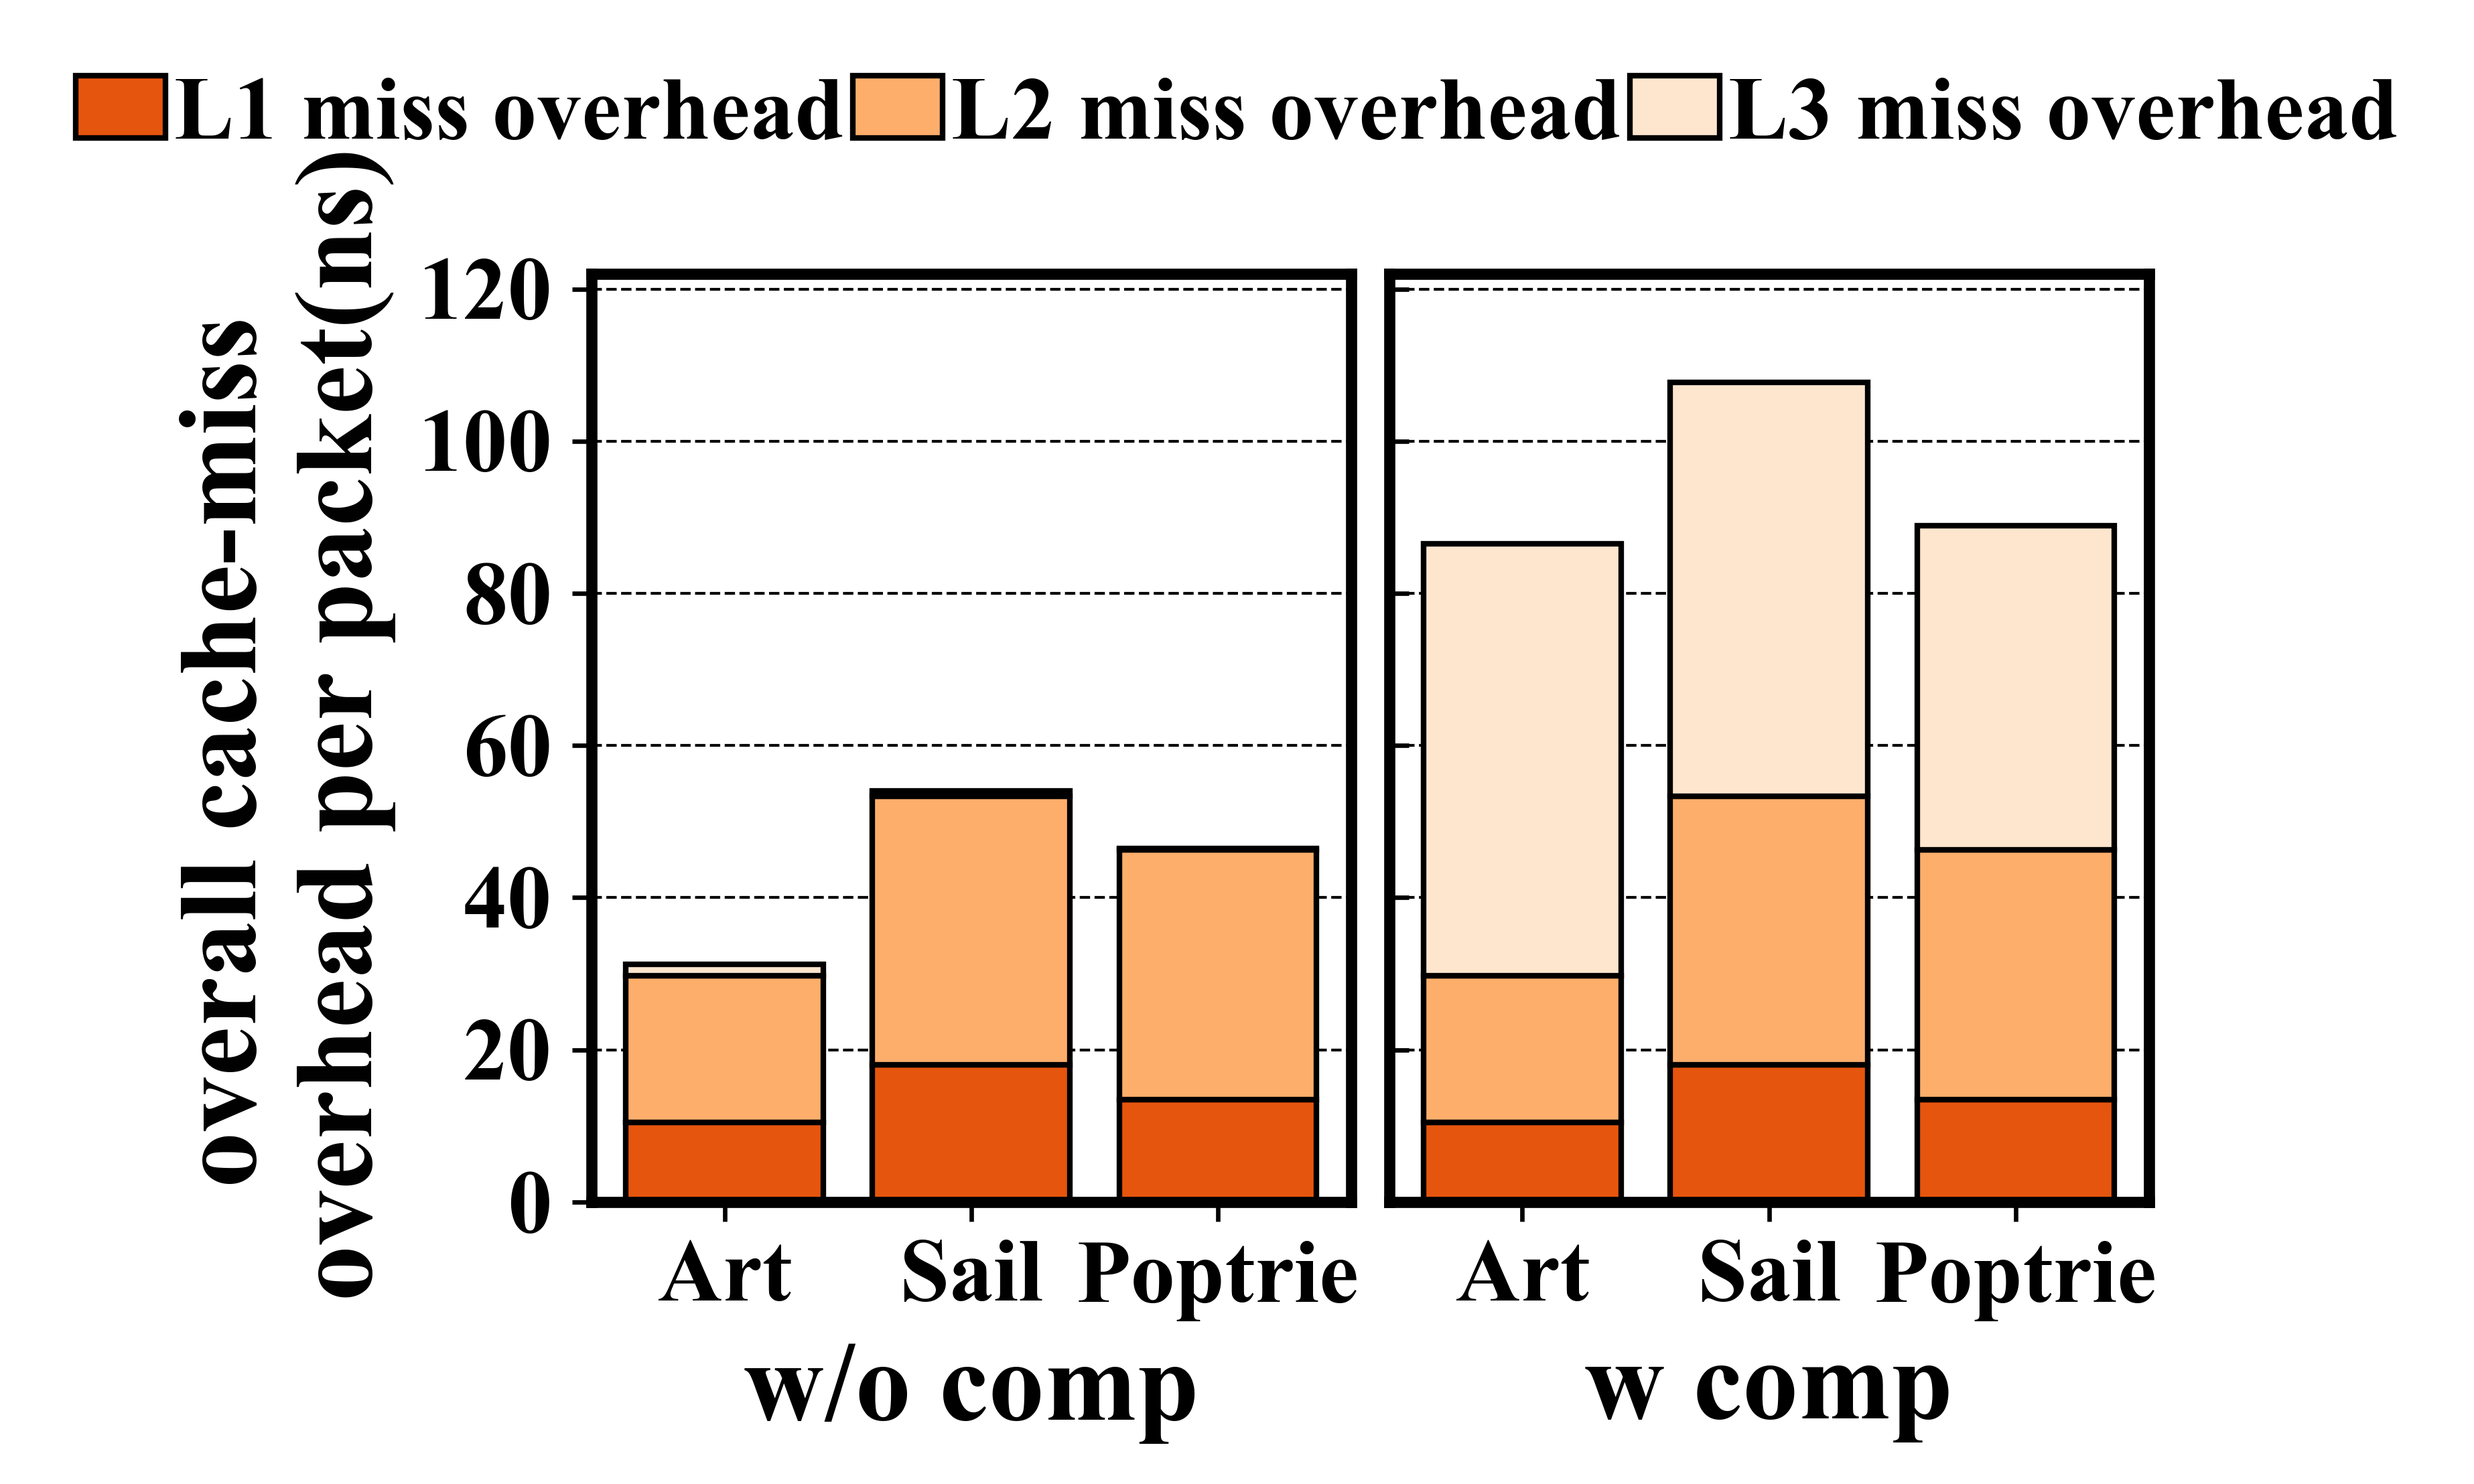
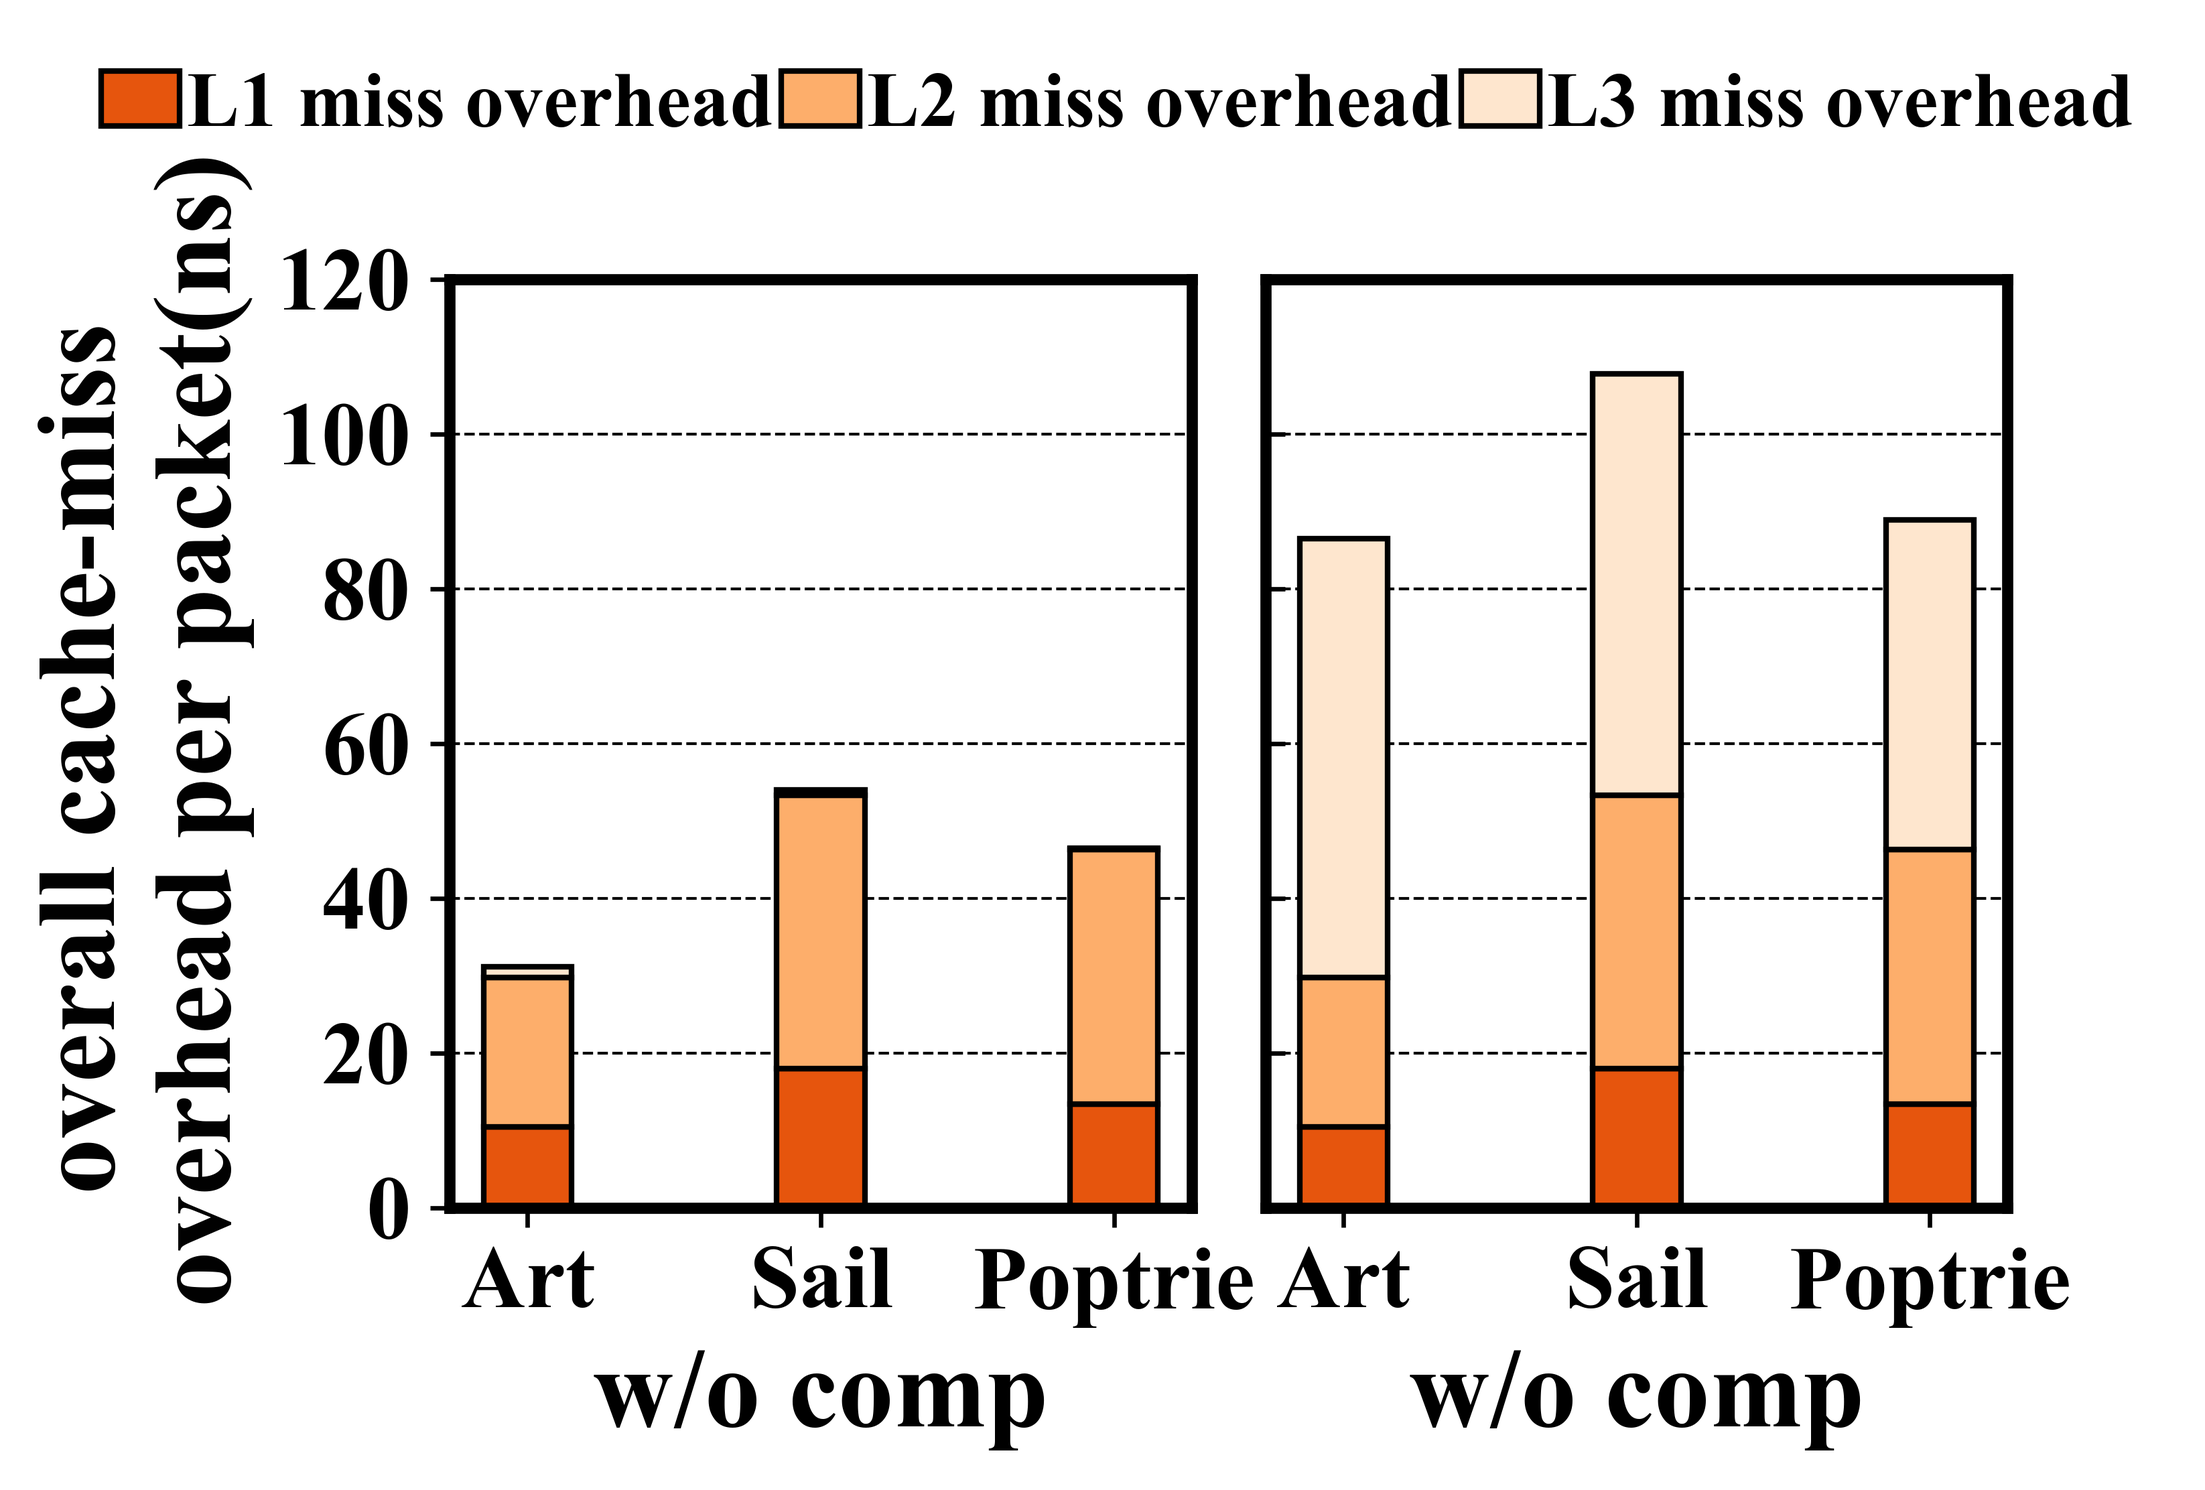
update plot code

Changed region(s): [[0.0, 0.0311, 0.9918, 0.9653]]

diff --git a/example3.py b/example3.py
@@ -7,6 +7,8 @@ import matplotlib.pyplot as plt
 from utils import Utils
 import matplotlib
 import numpy as np
+from plot import Plot
+from plot import Save
 
 # 这是一个叠加的组装图例子
 
@@ -30,50 +32,82 @@ w_l2_data = [w_art[1], w_sail[1], w_poptrie[1]]
 w_l3_data = [w_art[2], w_sail[2], w_poptrie[2]]
 
 # 开始绘图
-plt.figure(1, dpi=600, figsize=(5, 3))
-plt.subplots_adjust(wspace=0.05)  # 两幅图片之间的间隔
-plt.tight_layout()
 
-ax = plt.subplot(121)  # 绘制第一个柱状图
-ax.set_axisbelow(True)  # 设置网格线和坐标轴是在figure的上面还是在下面
-ax.spines['bottom'].set_linewidth(2)  # 设置坐标轴宽度
-ax.spines['right'].set_linewidth(2)
-ax.spines['top'].set_linewidth(2)
-ax.spines['left'].set_linewidth(2)
-bar1 = plt.bar(header[1:], wo_l1_data, color='#e6550d', edgecolor='black', linewidth=1)
-bar2 = plt.bar(header[1:], wo_l2_data, bottom=wo_l1_data, color='#fdae6b', edgecolor='black', linewidth=1)
-bar3 = plt.bar(header[1:], wo_l3_data, bottom=[wo_l2_data[i] + wo_l1_data[i] for i in range(len(wo_l2_data))],
-               color='#fee6ce', edgecolor='black', linewidth=1)
-plt.xticks(header[1:], ['Art', 'Sail', 'Poptrie'], fontproperties='Times New Roman', size=16)
-plt.grid(axis='y', color='black', linewidth=0.5, linestyle='--')
-font = {'family': 'Times New Roman', 'size': 20}
-plt.ylabel('overall cache-miss \n overhead per packet(ns)', font)
-plt.xlabel('w/o comp', font)
-plt.ylim(0, 122)
-plt.yticks(np.arange(0, 140, 20), fontproperties='Times New Roman', size=16)
+color = ['#e6550d', '#fdae6b', '#fee6ce']
 
-matplotlib.rcParams['ytick.direction'] = 'in'  # 设置第2图片y轴刻度的方向
-ax = plt.subplot(122)  # 绘制第二个柱状图
-ax.set_axisbelow(True)  # 设置网格线和坐标轴是在figure的上面还是在下面
-ax.spines['bottom'].set_linewidth(2)  # 设置坐标轴宽度
-ax.spines['right'].set_linewidth(2)
-ax.spines['top'].set_linewidth(2)
-ax.spines['left'].set_linewidth(2)
-bar1 = plt.bar(header[1:], w_l1_data, color='#e6550d', edgecolor='black', linewidth=1)
-bar2 = plt.bar(header[1:], w_l2_data, bottom=w_l1_data, color='#fdae6b', edgecolor='black', linewidth=1)
-bar3 = plt.bar(header[1:], w_l3_data, bottom=[w_l2_data[i] + w_l1_data[i] for i in range(len(w_l2_data))],
-               color='#fee6ce', edgecolor='black', linewidth=1)
-plt.xticks(header[1:], ['Art', 'Sail', 'Poptrie'], fontproperties='Times New Roman', size=16)  # 设置横坐标
-plt.grid(axis='y', color='black', linewidth=0.5, linestyle='--')  # 设置网格线
-plt.xlabel('w comp', font)
-plt.yticks(np.arange(0, 140, 20), ['', '', '', '', '', ''], fontproperties='Times New Roman', size=16)
-plt.ylim(0, 122)
+Plot.create_figure((5, 3))
+Plot.plot_setting(121)
+bar1 = Plot.plot_bar(np.arange(1, 4, 1), wo_l1_data, color=color[0], bar_width=0.3)
+bar2 = Plot.plot_bar(np.arange(1, 4, 1), wo_l2_data, color=color[1], bottom=wo_l1_data, bar_width=0.3)
+bar3 = Plot.plot_bar(np.arange(1, 4, 1), wo_l3_data, color=color[2], bar_width=0.3,
+                     bottom=[wo_l1_data[i] + wo_l2_data[i] for i in range(len((wo_l1_data)))])
+Plot.plot_xticks(np.arange(1, 4, 1), ['Art', 'Sail', 'Poptrie'], font_size=16)
+Plot.plot_yticks(np.arange(0, 140, 20))
+Plot.plot_xlable('w/o comp', font_size=20)
+Plot.plot_ylabel('overall cache-miss \n overhead per packet(ns)', font_size=20)
+Plot.plot_ylim(0, 120)
+Plot.plot_grid()
 
-font = {'family': 'Times New Roman', 'size': 16}
-plt.legend([bar1, bar2, bar3], ['L1 miss overhead', 'L2 miss overhead', 'L3 miss overhead'], loc='upper center', ncol=3,
-           bbox_to_anchor=(-0.2, 1.30), prop=font, columnspacing=0.1, handlelength=1, handletextpad=0.1, frameon=False)
+Plot.plot_setting(122, ytick_dircetion='in')
+bar1 = Plot.plot_bar(np.arange(1, 4, 1), w_l1_data, color=color[0], bar_width=0.3)
+bar2 = Plot.plot_bar(np.arange(1, 4, 1), w_l2_data, color=color[1], bottom=w_l1_data, bar_width=0.3)
+bar3 = Plot.plot_bar(np.arange(1, 4, 1), w_l3_data, color=color[2], bar_width=0.3,
+                     bottom=[w_l1_data[i] + w_l2_data[i] for i in range(len((w_l1_data)))])
+Plot.plot_xticks(np.arange(1, 4, 1), ['Art', 'Sail', 'Poptrie'], font_size=16)
+Plot.plot_yticks(np.arange(0, 140, 20), ['', '', '', '', '', ''])
+Plot.plot_xlable('w/o comp', font_size=20)
+Plot.plot_ylim(0, 120)
+Plot.plot_grid()
 
-plt.savefig('result/example3.pdf', dpi=600, bbox_inches='tight')  # 保存为pdf文件
-plt.savefig('example-picture/example3.png', dpi=600, bbox_inches='tight')  # 保存为png文件
+Plot.plot_legend([bar1, bar2, bar3], ['L1 miss overhead', 'L2 miss overhead', 'L3 miss overhead'], ncol=3, font_size=14,
+                 bbox_to_anchor=(-0.2, 1.3), loc='upper center')
+
+Save.save('example3')
+
+# plt.figure(1, dpi=600, figsize=(5, 3))
+# plt.subplots_adjust(wspace=0.05)  # 两幅图片之间的间隔
+# plt.tight_layout()
+#
+# ax = plt.subplot(121)  # 绘制第一个柱状图
+# ax.set_axisbelow(True)  # 设置网格线和坐标轴是在figure的上面还是在下面
+# ax.spines['bottom'].set_linewidth(2)  # 设置坐标轴宽度
+# ax.spines['right'].set_linewidth(2)
+# ax.spines['top'].set_linewidth(2)
+# ax.spines['left'].set_linewidth(2)
+# bar1 = plt.bar(header[1:], wo_l1_data, color='#e6550d', edgecolor='black', linewidth=1)
+# bar2 = plt.bar(header[1:], wo_l2_data, bottom=wo_l1_data, color='#fdae6b', edgecolor='black', linewidth=1)
+# bar3 = plt.bar(header[1:], wo_l3_data, bottom=[wo_l2_data[i] + wo_l1_data[i] for i in range(len(wo_l2_data))],
+#                color='#fee6ce', edgecolor='black', linewidth=1)
+# plt.xticks(header[1:], ['Art', 'Sail', 'Poptrie'], fontproperties='Times New Roman', size=16)
+# plt.grid(axis='y', color='black', linewidth=0.5, linestyle='--')
+# font = {'family': 'Times New Roman', 'size': 20}
+# plt.ylabel('overall cache-miss \n overhead per packet(ns)', font)
+# plt.xlabel('w/o comp', font)
+# plt.ylim(0, 122)
+# plt.yticks(np.arange(0, 140, 20), fontproperties='Times New Roman', size=16)
+
+# matplotlib.rcParams['ytick.direction'] = 'in'  # 设置第2图片y轴刻度的方向
+# ax = plt.subplot(122)  # 绘制第二个柱状图
+# ax.set_axisbelow(True)  # 设置网格线和坐标轴是在figure的上面还是在下面
+# ax.spines['bottom'].set_linewidth(2)  # 设置坐标轴宽度
+# ax.spines['right'].set_linewidth(2)
+# ax.spines['top'].set_linewidth(2)
+# ax.spines['left'].set_linewidth(2)
+# bar1 = plt.bar(header[1:], w_l1_data, color='#e6550d', edgecolor='black', linewidth=1)
+# bar2 = plt.bar(header[1:], w_l2_data, bottom=w_l1_data, color='#fdae6b', edgecolor='black', linewidth=1)
+# bar3 = plt.bar(header[1:], w_l3_data, bottom=[w_l2_data[i] + w_l1_data[i] for i in range(len(w_l2_data))],
+#                color='#fee6ce', edgecolor='black', linewidth=1)
+# plt.xticks(header[1:], ['Art', 'Sail', 'Poptrie'], fontproperties='Times New Roman', size=16)  # 设置横坐标
+# plt.grid(axis='y', color='black', linewidth=0.5, linestyle='--')  # 设置网格线
+# plt.xlabel('w comp', font)
+# plt.yticks(np.arange(0, 140, 20), ['', '', '', '', '', ''], fontproperties='Times New Roman', size=16)
+# plt.ylim(0, 122)
+#
+# font = {'family': 'Times New Roman', 'size': 16}
+# plt.legend([bar1, bar2, bar3], ['L1 miss overhead', 'L2 miss overhead', 'L3 miss overhead'], loc='upper center', ncol=3,
+#            bbox_to_anchor=(-0.2, 1.30), prop=font, columnspacing=0.1, handlelength=1, handletextpad=0.1, frameon=False)
+#
+# plt.savefig('result/example3.pdf', dpi=600, bbox_inches='tight')  # 保存为pdf文件
+# plt.savefig('example-picture/example3.png', dpi=600, bbox_inches='tight')  # 保存为png文件
 
 # plt.show()

diff --git a/plot.py b/plot.py
@@ -10,6 +10,8 @@ import matplotlib
 pdf_base_dir = 'result/'  # pdf保存的目录
 picture_base_dir = 'example-picture/'  # png格式保存的目录
 
+color = ['#e6550d', '#fdae6b', '#fee6ce']
+
 
 class Plot:
 
@@ -33,7 +35,8 @@ class Plot:
 
     @staticmethod
     def plot_bar(x, height, color, bar_width=0.2, bottom=None, edgecolor='black', linewidth=1, hatch=None):
-        return plt.bar(x, height, width=bar_width, color=color, edgecolor='black', linewidth=linewidth, hatch=hatch)
+        return plt.bar(x, height, width=bar_width, color=color, edgecolor='black', linewidth=linewidth, hatch=hatch,
+                       bottom=bottom)
 
     @staticmethod
     def plot(data, label, color='black', marker=None, linestyle='-', markersize=10, linewidth=2, ):
